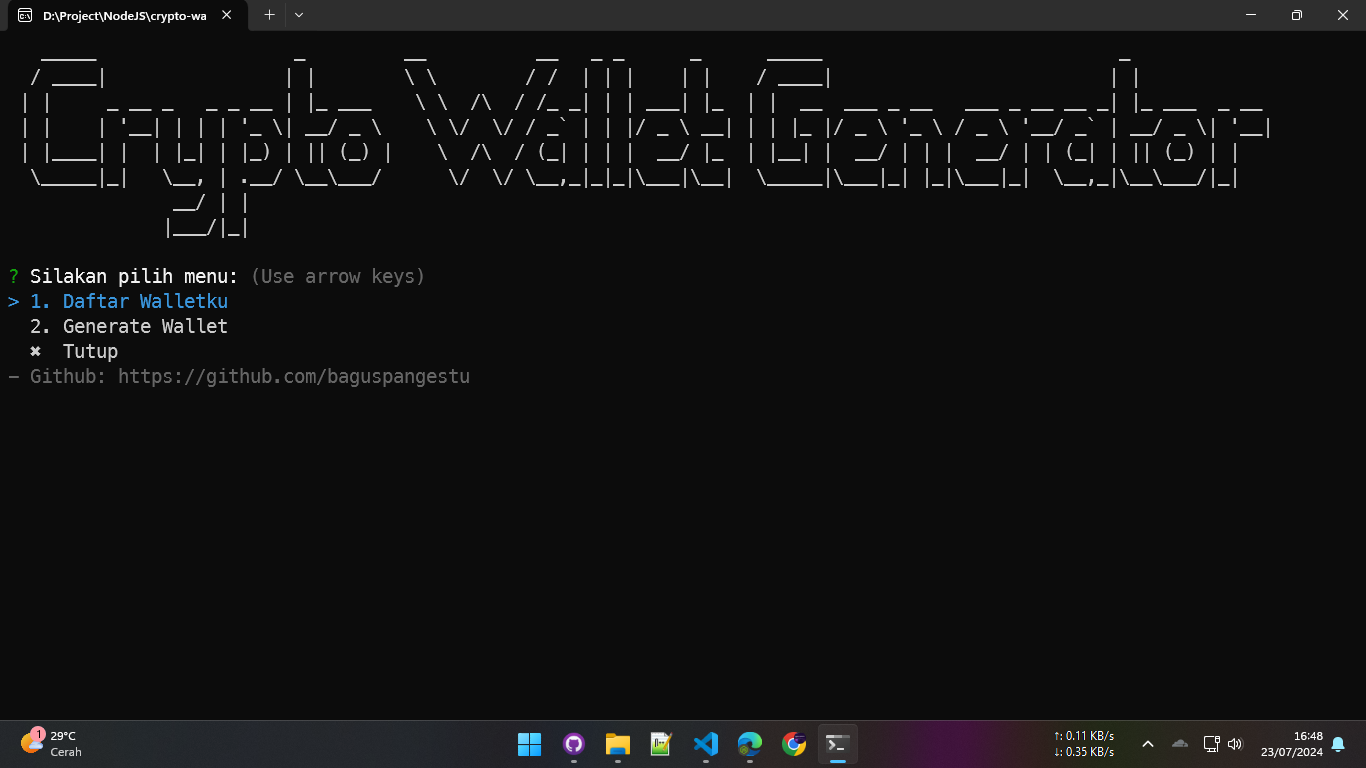
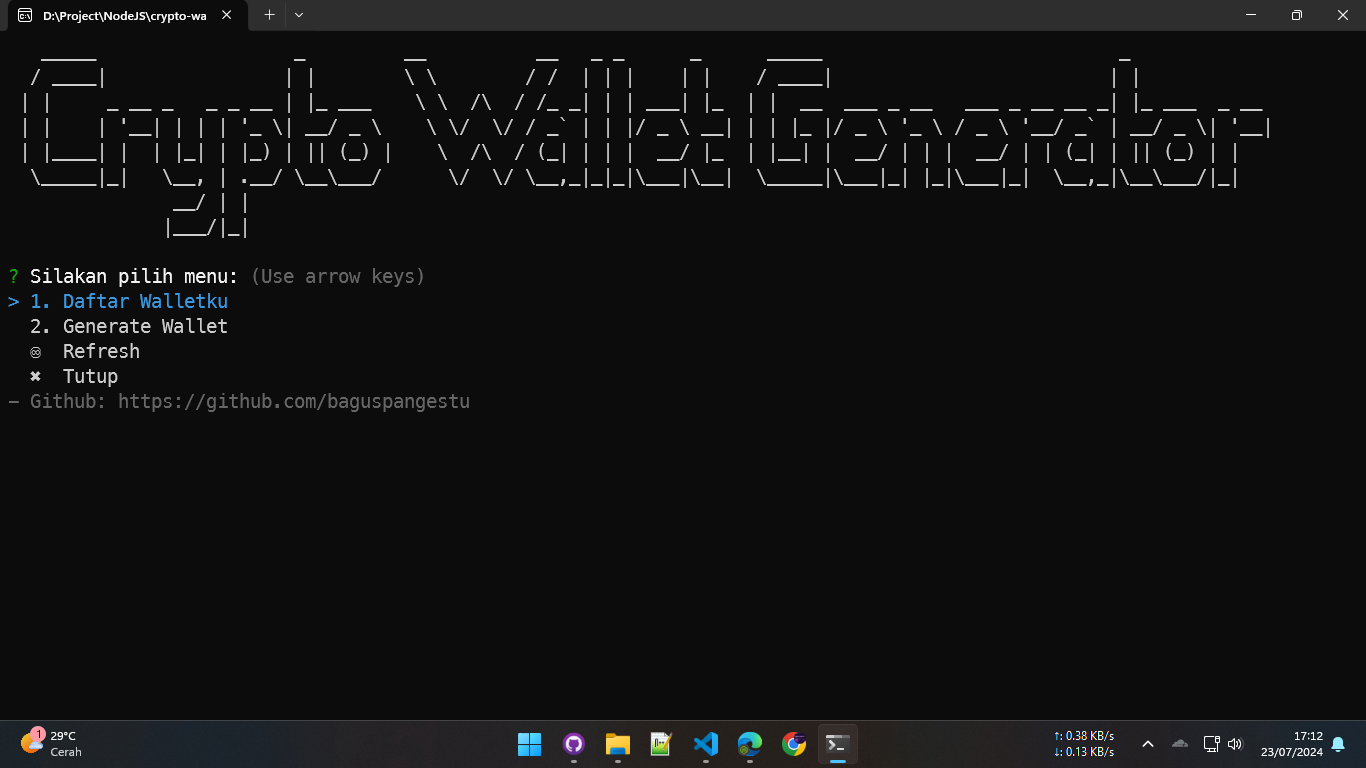
Menambahkan tombol Refresh

Changed region(s): [[0.0, 0.4375, 0.3382, 0.5312], [0.6764, 0.9375, 0.7379, 1.0]]

diff --git a/src/app.js b/src/app.js
@@ -256,6 +256,7 @@ const mainMenu = async () => {
         choices: [
           { name: "1. Daftar Walletku", value: 1 },
           { name: "2. Generate Wallet", value: 2 },
+          { name: "♾ Refresh", value: 3 },
           { name: "✖ Tutup", value: 0 },
           { name: "Github:", disabled: "https://github.com/baguspangestu" },
         ],
@@ -268,6 +269,8 @@ const mainMenu = async () => {
     } else if (answers.menu === 2) {
       await generateWallet();
       await mainMenu();
+    } else if (answers.menu === 3) {
+      runApp();
     } else {
       process.exit(0);
     }
@@ -276,9 +279,11 @@ const mainMenu = async () => {
   }
 };
 
-(async () => {
+const runApp = async () => {
   console.clear();
   await title("Crypto Wallet Generator");
   console.log("");
   await mainMenu();
-})();
+};
+
+runApp();

diff --git a/README.md b/README.md
@@ -2,7 +2,7 @@
 
 #### Download Link
 
-- [crypto-wallet-generator-v1.1.0-win-x64.exe](https://github.com/baguspangestu/crypto-wallet-generator/releases/download/v.1.1.0/crypto-wallet-generator-v1.1.0-win-x64.exe)
+- [crypto-wallet-generator-v1.1.1-win-x64.exe](https://github.com/baguspangestu/crypto-wallet-generator/releases/download/v.1.1.0/crypto-wallet-generator-v1.1.1-win-x64.exe)
 
 #### Clone Project
 
